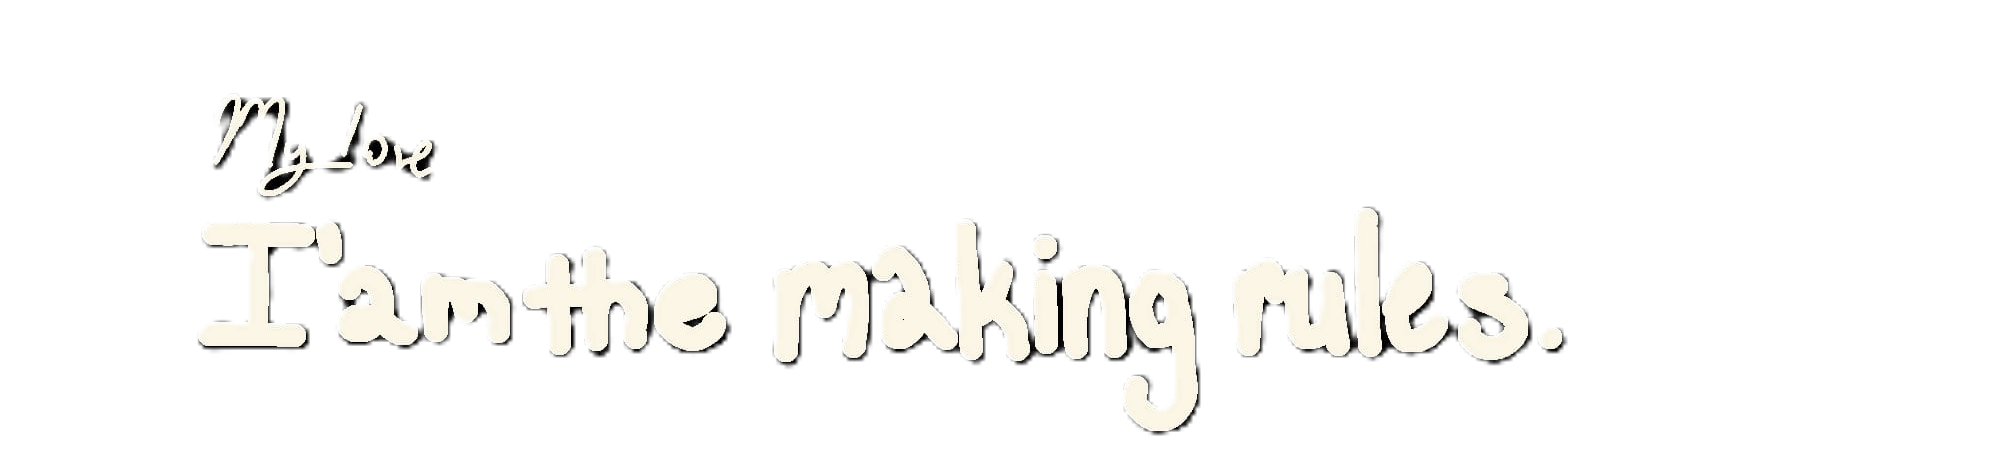
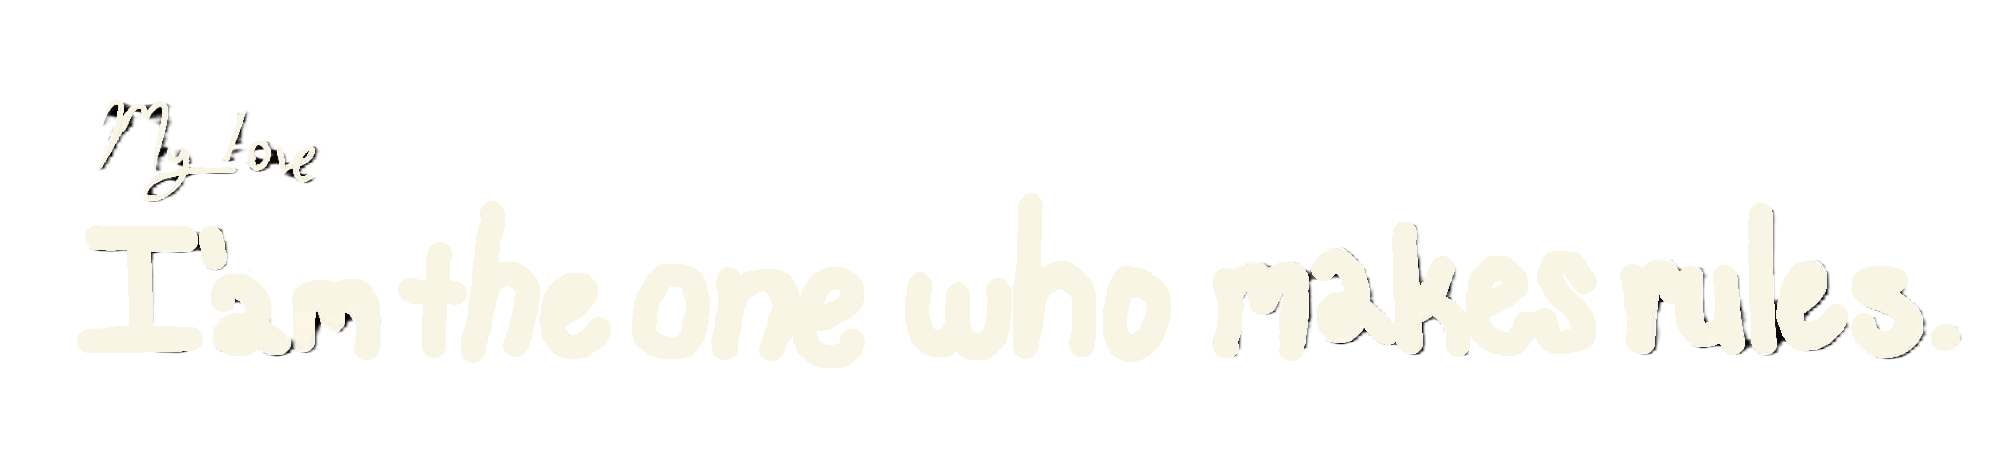
summary
upgrade

Changed region(s): [[0.031, 0.4197, 0.992, 0.9293], [0.031, 0.2099, 0.217, 0.4197]]

diff --git a/js/game.js b/js/game.js
@@ -1,62 +1,114 @@
 const canvas = document.getElementById("gameCanvas");
 const ctx = canvas.getContext("2d");
 
-// GRID (8x8 = 64 hücre)
+// GRID
 const gridSize = 8;
-const box = canvas.width / gridSize; // 50px
+const box = canvas.width / gridSize;
 
-// SPEED
-let speed = 180;
-let game;
+// STATE
+let isPlaying = false;
+let game = null;
 
-// SNAKE
-let snake = [
-  { x: 4 * box, y: 4 * box }
-];
-
+// GAME DATA
+let snake = [];
 let direction = "RIGHT";
-
 let score = 0;
 
+// ASSETS
+const headImg = new Image();
+headImg.src = "assets/images/snake_head.png";
+
+const foodImg = new Image();
+foodImg.src = "assets/images/food.png";
+
+// FOOD
 let food = spawnFood();
 
-// INPUT
-document.addEventListener("keydown", changeDirection);
+/* =========================
+   INPUT
+========================= */
+document.addEventListener("keydown", (event) => {
+  if (!isPlaying) return;
 
-function changeDirection(event) {
   if (event.key === "ArrowUp" && direction !== "DOWN") direction = "UP";
-  else if (event.key === "ArrowDown" && direction !== "UP") direction = "DOWN";
-  else if (event.key === "ArrowLeft" && direction !== "RIGHT") direction = "LEFT";
-  else if (event.key === "ArrowRight" && direction !== "LEFT") direction = "RIGHT";
-}
+  if (event.key === "ArrowDown" && direction !== "UP") direction = "DOWN";
+  if (event.key === "ArrowLeft" && direction !== "RIGHT") direction = "LEFT";
+  if (event.key === "ArrowRight" && direction !== "LEFT") direction = "RIGHT";
+});
 
-// FOOD SPAWN
+/* =========================
+   TOUCH FIX
+========================= */
+let startX = 0;
+let startY = 0;
+
+document.addEventListener("touchstart", (e) => {
+  startX = e.touches[0].clientX;
+  startY = e.touches[0].clientY;
+});
+
+document.addEventListener("touchend", (e) => {
+  if (!isPlaying) return;
+
+  let dx = e.changedTouches[0].clientX - startX;
+  let dy = e.changedTouches[0].clientY - startY;
+
+  if (Math.abs(dx) > Math.abs(dy)) {
+    if (dx > 0 && direction !== "LEFT") direction = "RIGHT";
+    else if (dx < 0 && direction !== "RIGHT") direction = "LEFT";
+  } else {
+    if (dy > 0 && direction !== "UP") direction = "DOWN";
+    else if (dy < 0 && direction !== "DOWN") direction = "UP";
+  }
+});
+
+/* =========================
+   FOOD
+========================= */
 function spawnFood() {
-  return {
-    x: Math.floor(Math.random() * gridSize) * box,
-    y: Math.floor(Math.random() * gridSize) * box
-  };
+  let f;
+  do {
+    f = {
+      x: Math.floor(Math.random() * gridSize) * box,
+      y: Math.floor(Math.random() * gridSize) * box
+    };
+  } while (snake.some(s => s.x === f.x && s.y === f.y));
+
+  return f;
 }
 
-// GAME LOOP
+/* =========================
+   DRAW
+========================= */
 function draw() {
-
-  // canvas temizle (CSS background kalsın)
   ctx.clearRect(0, 0, canvas.width, canvas.height);
 
+  // FOOD
+  ctx.drawImage(foodImg, food.x, food.y, box, box);
+
   // SNAKE
+  ctx.beginPath();
   for (let i = 0; i < snake.length; i++) {
-    ctx.fillStyle = i === 0 ? "lime" : "green";
-    ctx.fillRect(snake[i].x, snake[i].y, box, box);
+    let x = snake[i].x + box / 2;
+    let y = snake[i].y + box / 2;
+
+    if (i === 0) ctx.moveTo(x, y);
+    else ctx.lineTo(x, y);
   }
 
-  // FOOD
-  ctx.fillStyle = "red";
-  ctx.fillRect(food.x, food.y, box, box);
+  ctx.strokeStyle = "#3cff7a";
+  ctx.lineWidth = box * 0.9;
+  ctx.lineCap = "round";
+  ctx.lineJoin = "round";
+  ctx.stroke();
 
-  // HEAD POSITION
-  let headX = snake[0].x;
-  let headY = snake[0].y;
+  // HEAD
+  let head = snake[0];
+  ctx.drawImage(headImg, head.x, head.y, box, box);
+
+  // MOVE
+  let headX = head.x;
+  let headY = head.y;
 
   if (direction === "UP") headY -= box;
   if (direction === "DOWN") headY += box;
@@ -67,14 +119,13 @@ function draw() {
   if (headX === food.x && headY === food.y) {
     score++;
     document.getElementById("score").innerText = "Score: " + score;
+
     food = spawnFood();
 
-    // 🔥 optional speed increase
-    // if (score % 5 === 0 && speed > 60) {
-    //   speed -= 5;
-    //   restartGame();
-    // }
-
+    if (score >= 40) {
+      endGame("win");
+      return;
+    }
   } else {
     snake.pop();
   }
@@ -85,18 +136,63 @@ function draw() {
     headX >= canvas.width ||
     headY >= canvas.height
   ) {
-    clearInterval(game);
-    alert("Game Over");
+    endGame("lose");
     return;
   }
 
   snake.unshift({ x: headX, y: headY });
 }
 
-// START GAME
+/* =========================
+   START
+========================= */
 function startGame() {
+  snake = [{ x: 4 * box, y: 4 * box }];
+  direction = "RIGHT";
+  score = 0;
+
+  document.getElementById("score").innerText = "Score: 0";
+
   document.getElementById("startScreen").style.display = "none";
+  document.getElementById("winScreen").classList.add("hidden");
+  document.getElementById("gameOverScreen").classList.add("hidden");
+
+  isPlaying = true;
 
   clearInterval(game);
-  game = setInterval(draw, speed);
+  game = setInterval(draw, 180);
 }
+
+/* =========================
+   END GAME
+========================= */
+function endGame(type) {
+  isPlaying = false;
+  clearInterval(game);
+  game = null;
+
+  if (type === "win") {
+    document.getElementById("winScreen").classList.remove("hidden");
+  } else {
+    document.getElementById("gameOverScreen").classList.remove("hidden");
+  }
+}
+
+/* =========================
+   RESTART
+========================= */
+function restartGame() {
+  document.getElementById("winScreen").classList.add("hidden");
+  document.getElementById("gameOverScreen").classList.add("hidden");
+
+  startGame();
+}
+
+/* =========================
+   CLICK EVENTS
+========================= */
+document.addEventListener("click", (e) => {
+  if (e.target.id === "restartBtn" || e.target.id === "restartBtn2") {
+    restartGame();
+  }
+});

diff --git a/css/style.css b/css/style.css
@@ -409,3 +409,48 @@ body {
     }
 }
 
+canvas {
+  touch-action: none;
+}
+
+#restartBtn,
+#restartBtn2 {
+  width: 120px;
+  height: 120px;
+  cursor: pointer;
+
+  animation: spin 2s linear infinite;
+}
+
+#restartBtn:hover,
+#restartBtn2:hover {
+  transform: scale(1.1);
+}
+
+@keyframes spin {
+  from { transform: rotate(0deg); }
+  to { transform: rotate(360deg); }
+}
+
+.overlay {
+  position: absolute;
+  inset: 0;
+  width: 100%;
+  height: 100%;
+
+  background: rgba(0, 0, 0, 0.85);
+
+  display: flex;
+  flex-direction: column;
+  justify-content: center;
+  align-items: center;
+
+  color: white;
+  z-index: 9999;
+
+  text-align: center;
+}
+
+.hidden {
+  display: none !important;
+}

diff --git a/game.html b/game.html
@@ -19,6 +19,16 @@
 
         <canvas id="gameCanvas" width="400" height="400"></canvas>
 
+        <div id="winScreen" class="overlay hidden">
+  <h1>you are my only onee, appreciacte ittt </h1>
+   <img id="restartBtn" src="assets/images/restart.png" />
+</div>
+
+<div id="gameOverScreen" class="overlay hidden">
+  <h1>would you want to try again, bitanem?</h1>
+  <img id="restartBtn2" src="assets/images/restart.png" />
+</div>
+
     </div>
 
     <script src="js/game.js"></script>